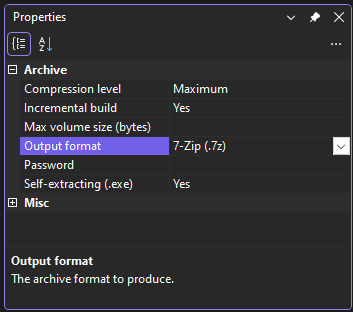
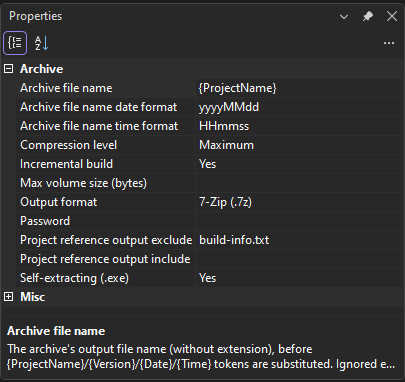
Add ZipadeeArchiveFileName token-based naming for the archive output (#19)
ZipadeeArchiveFileName composes the archive's output file name from
{ProjectName}/{Version}/{Date}/{Time} tokens, literally substituted via
chained String.Replace calls - no items or regex involved, so none of the
MSBuild glob/escaping landmines hit earlier this project (#18, #30) apply
here. {Date}/{Time} take their format from separate ZipadeeArchiveDateFormat/
ZipadeeArchiveTimeFormat properties rather than an inline "{Date:format}"
syntax, since MSBuild has no regex-replace-with-computed-value to support a
different format per occurrence.

ZipadeeArchiveOutputPath still means exactly what it always has - full
manual control over the entire path, with ZipadeeArchiveFileName ignored
entirely if both are set (now with a warning, rather than silent).
$(Version) defaults to "1.0.0" via the SDK even when not set explicitly, so
{Version} always resolves to something.

Validates that ZipadeeArchiveDateFormat/TimeFormat don't contain a
character Windows disallows in file names - catches the natural "HH:mm:ss"
mistake with a clear error instead of a cryptic failure trying to write to
an invalid path.

Demonstrated in the ConsoleGZip sample ({ProjectName}-{Date}, confirmed
producing ConsoleGZip-20260903.tar.gz). Documented in
marketplace/overview.md, README.md, and the project template's own readme
(#41).

Claude-Session: https://claude.ai/code/session_013vvzHbue453GXdV1oRbAqF

Changed region(s): [[0.0, 0.0, 1.0, 1.0], [0.4986, 0.7212, 0.5297, 0.75]]

diff --git a/build/Zipadee.Build/build/Rules/ConfigurationGeneralBrowseObject.xaml b/build/Zipadee.Build/build/Rules/ConfigurationGeneralBrowseObject.xaml
@@ -131,4 +131,31 @@
     </StringProperty.DataSource>
   </StringProperty>
 
+  <StringProperty Name="ZipadeeArchiveFileName"
+                  Category="Archive"
+                  DisplayName="Archive file name"
+                  Description="The archive's output file name (without extension), before {ProjectName}/{Version}/{Date}/{Time} tokens are substituted. Ignored entirely if ZipadeeArchiveOutputPath is also set.">
+    <StringProperty.DataSource>
+      <DataSource Persistence="ProjectFile" HasConfigurationCondition="False" />
+    </StringProperty.DataSource>
+  </StringProperty>
+
+  <StringProperty Name="ZipadeeArchiveDateFormat"
+                  Category="Archive"
+                  DisplayName="Archive file name date format"
+                  Description="The .NET date format string substituted wherever {Date} appears in ZipadeeArchiveFileName. Default: yyyyMMdd.">
+    <StringProperty.DataSource>
+      <DataSource Persistence="ProjectFile" HasConfigurationCondition="False" />
+    </StringProperty.DataSource>
+  </StringProperty>
+
+  <StringProperty Name="ZipadeeArchiveTimeFormat"
+                  Category="Archive"
+                  DisplayName="Archive file name time format"
+                  Description="The .NET time format string substituted wherever {Time} appears in ZipadeeArchiveFileName. Default: HHmmss.">
+    <StringProperty.DataSource>
+      <DataSource Persistence="ProjectFile" HasConfigurationCondition="False" />
+    </StringProperty.DataSource>
+  </StringProperty>
+
 </Rule>

diff --git a/build/Zipadee.Build/build/Rules/ConfigurationGeneralPage.xaml b/build/Zipadee.Build/build/Rules/ConfigurationGeneralPage.xaml
@@ -119,4 +119,31 @@
     </StringProperty.DataSource>
   </StringProperty>
 
+  <StringProperty Name="ZipadeeArchiveFileName"
+                  Category="Archive"
+                  DisplayName="Archive file name"
+                  Description="The archive's output file name (without extension), before {ProjectName}/{Version}/{Date}/{Time} tokens are substituted. Ignored entirely if ZipadeeArchiveOutputPath is also set.">
+    <StringProperty.DataSource>
+      <DataSource Persistence="ProjectFile" HasConfigurationCondition="False" />
+    </StringProperty.DataSource>
+  </StringProperty>
+
+  <StringProperty Name="ZipadeeArchiveDateFormat"
+                  Category="Archive"
+                  DisplayName="Archive file name date format"
+                  Description="The .NET date format string substituted wherever {Date} appears in ZipadeeArchiveFileName. Default: yyyyMMdd.">
+    <StringProperty.DataSource>
+      <DataSource Persistence="ProjectFile" HasConfigurationCondition="False" />
+    </StringProperty.DataSource>
+  </StringProperty>
+
+  <StringProperty Name="ZipadeeArchiveTimeFormat"
+                  Category="Archive"
+                  DisplayName="Archive file name time format"
+                  Description="The .NET time format string substituted wherever {Time} appears in ZipadeeArchiveFileName. Default: HHmmss.">
+    <StringProperty.DataSource>
+      <DataSource Persistence="ProjectFile" HasConfigurationCondition="False" />
+    </StringProperty.DataSource>
+  </StringProperty>
+
 </Rule>

diff --git a/marketplace/overview.md b/marketplace/overview.md
@@ -23,6 +23,7 @@ Think of it as a lightweight, in-solution alternative to a separate packaging sc
 - **Incremental builds** — the archive is only rebuilt when its contents actually change, not on every build. Can be turned off per-project to force a fresh archive every time.
 - **Multi-volume archives** — split the output into multiple numbered files of a set maximum size, for the Zip, 7-Zip, RAR, and Cab formats.
 - **Filter project reference output** — exclude files (by wildcard pattern or exact name) from a referenced project's output, with an override to force specific files back in.
+- **Customizable archive file name** — compose the output file name from `{ProjectName}`/`{Version}`/`{Date}`/`{Time}` tokens.
 - Works with `dotnet build` / `dotnet restore` on the command line and in CI, not just inside Visual Studio.
 
 ## Getting started
@@ -68,6 +69,9 @@ All archive settings are plain MSBuild properties. You can set them either from 
 | `ZipadeeMaxVolumeSize` | a positive integer (bytes) | *(none, single file)* | Splits the archive into multiple numbered volumes of at most this many bytes each. **Valid for `Zip`, `SevenZip`, `Rar`, and `Cab`** - ignored (with a warning) for `Tar`/`GZip`, since neither format supports it. **Not valid combined with `ZipadeeCreateSfx`** - a self-extracting archive can't also be split, and the build fails with a clear error if both are set. For `Cab` specifically, the value **must be a multiple of 512** (`makecab.exe`'s own cluster-size requirement); see [Cab files and DDF support](#cab-files-and-ddf-support) below for how it interacts with a custom DDF. See [Multi-volume archives](#multi-volume-archives) below for per-format output naming and the incremental-build caveat. |
 | `ZipadeeProjectOutputExclude` | `;`-separated wildcard patterns (`*.pdb`) or exact file names | *(none)* | Leaves matching files out of a referenced project's output - see [Filtering project reference output](#filtering-project-reference-output) below. Doesn't affect the project's own `Content`/`None` items, which already have full control via the item type itself. |
 | `ZipadeeProjectOutputInclude` | `;`-separated wildcard patterns or exact file names | *(none)* | Overrides `ZipadeeProjectOutputExclude`, forcing matching files back in. Has no effect (with a warning) without `ZipadeeProjectOutputExclude` also set. |
+| `ZipadeeArchiveFileName` | text with `{ProjectName}`/`{Version}`/`{Date}`/`{Time}` tokens | `{ProjectName}` | The archive's output file name (without extension) - see [Customizing the archive file name](#customizing-the-archive-file-name) below. **Ignored entirely if `ZipadeeArchiveOutputPath` is also set** (a warning is logged). |
+| `ZipadeeArchiveDateFormat` | a .NET date format string | `yyyyMMdd` | The format substituted wherever `{Date}` appears in `ZipadeeArchiveFileName`. Can't contain a character Windows disallows in file names (`< > : " / \ \| ? *`) - the build fails with a clear error if it does. |
+| `ZipadeeArchiveTimeFormat` | a .NET time format string | `HHmmss` | The format substituted wherever `{Time}` appears in `ZipadeeArchiveFileName`. Same character restriction as `ZipadeeArchiveDateFormat` above. |
 
 ### Where to put the items being archived
 
@@ -127,6 +131,29 @@ By default every file a `ProjectReference` copies to its output directory is arc
 A pattern can't contain `\` - it matches by file name or extension, not by folder. This is purely a filter over whatever already reaches the archive via the mechanism above; it doesn't pull in anything new. Notably, a companion `.pdb` or XML doc-comment file **isn't currently part of that set** for this project type (they're placed directly by the compiler, bypassing the copy-to-output-directory protocol these properties filter), so a `*.pdb` pattern has nothing to match yet.
 
 See `sample/ZipadeeSample/ConsoleZip` in the repo for a real, working example - it excludes a `build-info.txt` that `ConsoleApp` copies to its own output.
+
+### Customizing the archive file name
+
+By default the archive's file name is just the project name (e.g. `MyArchive.zip`). `ZipadeeArchiveFileName` composes a different one from four tokens, substituted literally wherever they appear:
+
+| Token | Substituted with |
+|---|---|
+| `{ProjectName}` | `$(MSBuildProjectName)` - the default on its own |
+| `{Version}` | `$(Version)` (defaults to `1.0.0` via the SDK if not set on the project) |
+| `{Date}` | today's date, formatted with `ZipadeeArchiveDateFormat` (default `yyyyMMdd`) |
+| `{Time}` | the current time, formatted with `ZipadeeArchiveTimeFormat` (default `HHmmss`) |
+
+```xml
+<PropertyGroup>
+  <ZipadeeArchiveFileName>{ProjectName}-{Version}-{Date}</ZipadeeArchiveFileName>
+</PropertyGroup>
+```
+
+produces `MyArchive-1.2.0-20260901.zip`. The date/time format is a separate property rather than an inline `{Date:yyyyMMdd}`-style syntax, so every `{Date}` (or `{Time}`) in the name shares one format - set `ZipadeeArchiveDateFormat`/`ZipadeeArchiveTimeFormat` to any .NET date/time format string, as long as it doesn't contain a character Windows disallows in file names (a stray `:` from something like `HH:mm:ss` is the most likely mistake - the build fails with a clear error rather than trying to write to an invalid path).
+
+This only controls the file name - for full control over the entire output path (including its directory), set `ZipadeeArchiveOutputPath` directly instead; doing so ignores `ZipadeeArchiveFileName` entirely (with a warning if both are set).
+
+See `sample/ZipadeeSample/ConsoleGZip` in the repo for a real, working example using `{Date}`.
 
 ### Setting the password
 

diff --git a/README.md b/README.md
@@ -23,6 +23,7 @@ Think of it as a lightweight, in-solution alternative to a separate packaging sc
 - **Incremental builds** — the archive is only rebuilt when its contents actually change, not on every build. Can be turned off per-project to force a fresh archive every time.
 - **Multi-volume archives** — split the output into multiple numbered files of a set maximum size, for the Zip, 7-Zip, RAR, and Cab formats (see [Multi-volume archives](marketplace/overview.md#multi-volume-archives)).
 - **Filter project reference output** — exclude files (by wildcard pattern or exact name) from a referenced project's output, with an override to force specific files back in (see [Filtering project reference output](marketplace/overview.md#filtering-project-reference-output)).
+- **Customizable archive file name** — compose the output file name from `{ProjectName}`/`{Version}`/`{Date}`/`{Time}` tokens (see [Customizing the archive file name](marketplace/overview.md#customizing-the-archive-file-name)).
 - **Configurable from the IDE** — the settings show up in the Properties window (F4) and on the project's General property page, or edit the project XML directly if you prefer.
 - Works with `dotnet build` / `dotnet restore` on the command line and in CI, not just inside Visual Studio.
 

diff --git a/src/Zipadee.Vsix/ProjectTemplates/ZipadeeArchiveProject/Readme.md b/src/Zipadee.Vsix/ProjectTemplates/ZipadeeArchiveProject/Readme.md
@@ -46,6 +46,7 @@ Set these either from the **Properties** window (F4) or the project's General **
 | `ZipadeeMaxVolumeSize` | a positive integer (bytes) | *(none, single file)* | Splits the archive into multiple numbered volumes of at most this many bytes each. Valid for `Zip`, `SevenZip`, `Rar`, and `Cab` (must be a multiple of 512 for `Cab`); ignored for `Tar`/`GZip`. |
 | `ZipadeeProjectOutputExclude` | `;`-separated wildcard patterns (`*.pdb`) or exact file names | *(none)* | Leaves matching files out of a referenced project's output. Doesn't affect this project's own `Content`/`None` items. |
 | `ZipadeeProjectOutputInclude` | `;`-separated wildcard patterns or exact file names | *(none)* | Overrides `ZipadeeProjectOutputExclude`, forcing matching files back in. Has no effect without `ZipadeeProjectOutputExclude` also set. |
+| `ZipadeeArchiveFileName` | text with `{ProjectName}`/`{Version}`/`{Date}`/`{Time}` tokens | `{ProjectName}` | The archive's output file name (without extension) - e.g. `{ProjectName}-{Date}` produces `MyArchive-20260901.zip`. `{Date}`/`{Time}` use `ZipadeeArchiveDateFormat`/`ZipadeeArchiveTimeFormat` (default `yyyyMMdd`/`HHmmss`). Ignored entirely if `ZipadeeArchiveOutputPath` is also set. |
 
 ### Compression level mapping
 
